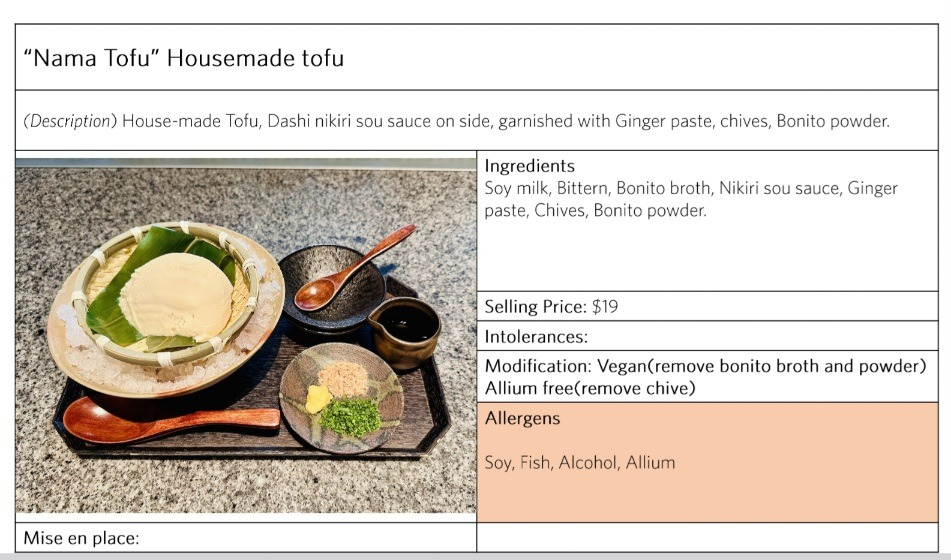
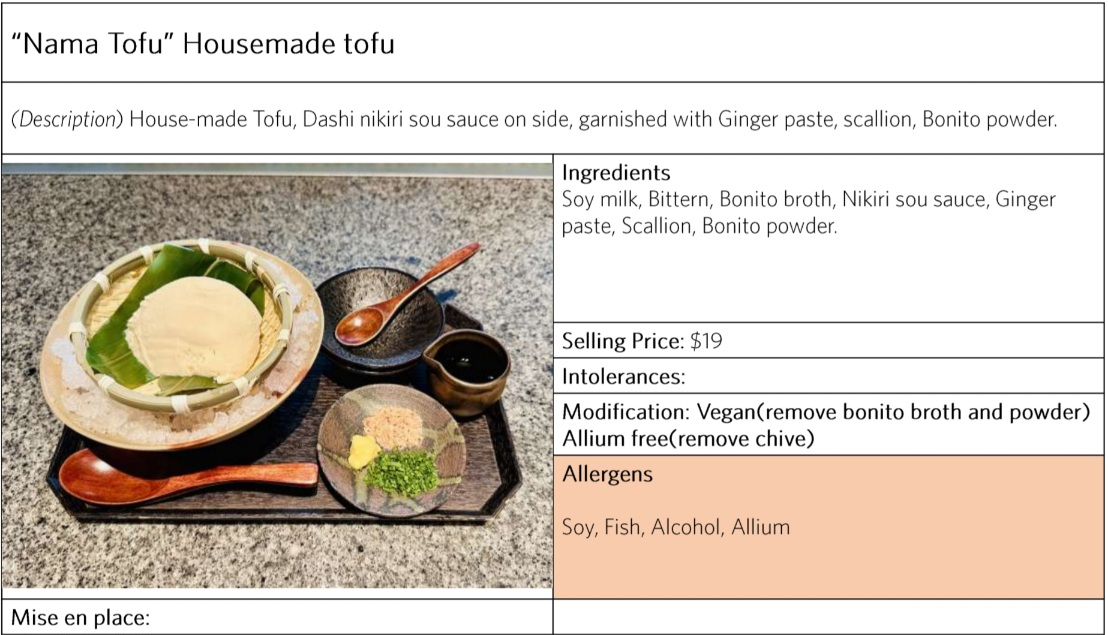
update spring menu items

diff --git a/index.html b/index.html
@@ -122,11 +122,11 @@
             Yellowtail, Yuzu Sesame Ponzu, Crispy Garlic
         </div>
       
-        <!-- <div class="item" style="cursor:pointer;" onclick="openPic('nama-tofu');">
+        <div class="item" style="cursor:pointer;" onclick="openPic('nama-tofu');">
             <b>Nama Tofu</b>
             <span class="price">19</span><br>
-            Housemade Tofu, Dashi Shoyu
-        </div> -->
+            Housemade Tofu, Dashi Nikiri
+        </div>
       
         <div class="item" style="cursor:pointer;" onclick="openPic('shira-ae');">
           <b>Yasai Shiraae</b> (GF, D)
@@ -290,7 +290,7 @@
     <figcaption>
         <b>Nama Tofu</b><span class="price">19</span><br>
         House-made Tofu, Dashi Nikiri Soy Sauce on the side,<br>
-        with ginger paste, chives, bonito powder<br>
+        with ginger paste, scallion, bonito powder<br>
     </figcaption></figure>
 </div>
 
